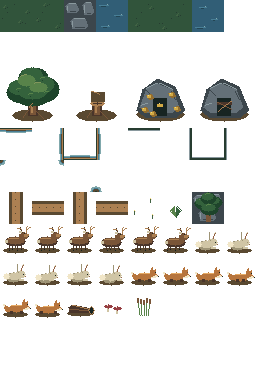
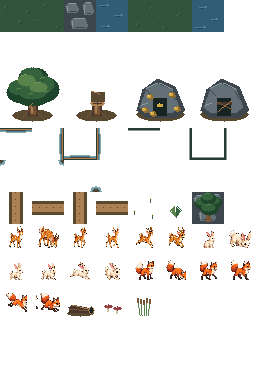
feat(art): give forest wildlife expressive sprites

Changed region(s): [[0.0, 0.5938, 1.0, 0.8438]]

diff --git a/HANDOFF.md b/HANDOFF.md
@@ -1,3 +1,29 @@
+# Överlämning RTS-188–190 — grafik/layout klar
+
+2026-10-06. Användaren beställde bättre spelgrafik inklusive saknade flyg, tydligare spelyta utan sidebar och roligare djur; bildstilen accepterades (“bilderna ser bra ut”).188–190 är Done, inga nya tasks startas.
+
+- **188** `0779d8b`, pushad: full-width karta, tech tree/commands i matchmenyn, topbar Mission öppnar pausad beskrivning/mål/status. Back/Escape/Resume och actions/minimap/feedback består. Ny separat CSS-fil; style.css orörd.
+- **189** `9af4724`, pushad: fem fraktioners fulla landroster, complete/damaged byggnader, sjö och flyg med imagegen-källark/export, team/ankare/footprint/porträtt/fog. TEMP-flygikoner ersatta av riktig air-atlas.1280 flyg-,5840 land-,180 byggnads- och2080 sjöframes.
+- **190** levereras med `feat(art): give forest wildlife expressive sprites`: spotted deer, ivory rabbit, bushy-tail fox,18 nya idle/walk/leap-poses i befintliga32px-celler. Interaktion/jakt/skada/död/Save/ljud/timing oförändrade; hash rapporteras efter commit/push.
+
+## Ny faktisk verifiering
+
+Full regression1497/180 PASS391.02s; slutlig unit476/86 PASS10.18s; build med strict typecheck PASS328ms; manifest86unit/94integration; syntax/diff/Markdown-/assetreferenser PASS. Reproducerbar full assets:export16 PNG/JSON bytevis oförändrade PASS, så passerade kodchecks upprepas inte efter exporten. Befintlig bundlevarning kvar.
+
+188 riktade11/3 och Chrome Native800/1280/1920 samt Fit800 full kartbredd/mission/tech/paus/Escape/resume PASS.189 art33/6 och runtime37/4 PASS; alla fem fraktioners native1280-spelcanvas-gallerier med båda teams/uttömmande framecoverage visuellt granskade. Actual Chrome fem flygare×800/1280 paid production/elevated selection/flight over building/SaveLoad/full queue/restart PASS.190 wildlife15/3, nya rastertester och Chrome Native800/1280 physical inspection/cues/rate limit/hunt/damage/death/no resources-score/SaveLoad/restart/warship hunt PASS; deer/rabbit/fox-bilder granskade.
+
+Första asset-unitkontrollerna förväntade äldre155-kodsprites och en global gammal palett. Testernas källa följer nu den nya adaptern; native terrain/resource/construction-palettkrav består. Nya bilder tillåter sina källfärger; clip/alpha/HP/team/geometry/pose/keys valideras. Första sådana fall räknas inte som PASS. Konkret granskning rättade beskärningsgränser, grannfragment och marginaler före slutchecks. Extern Playwright-miljö återställd efter miljöbyte; saknad-modul-körning räknas inte som PASS.
+
+## Källor, harness och gränser
+
+Källbilder, promptset och packning: [visual-refresh](assets/sources/visual-refresh/README.md). Built-in imagegen användes, ingen CLI/API eller importerade spelsprites. Källor ligger i projektet, inte bara generated_images. Animationsgrund är SE-poser med spegling/skuggning: alla åtta facing-nycklar finns, men inte åtta oberoende målade perspektiv. Work/attack/death är adapterade; fyra riktiga flygposer, två walkposer för mark och sex poser per djur. Native construction/walls/gates kvarstår; separata casting-/voiceassets och äldre mänsklig balans-/ljudgranskning är inte avslutade av detta uppdrag.
+
+Browserharness: [workspace](scripts/check-match-workspace.mjs), [art gallery](scripts/check-refreshed-art.mjs), [flyg](scripts/check-air.mjs), [djur](scripts/check-interactive-wildlife.mjs). Extern W2T_PLAYWRIGHT_MODULE/W2T_BROWSER_EXECUTABLE/W2T_UI_URL; W2T_AIR_ARTIFACTS och W2T_WILDLIFE_ARTIFACTS väljer separat output för nya belägg. Artefakter lokalt/tmp/rts189-*, /tmp/rts189-air, /tmp/rts190-wildlife. Ingen skeppad debug-API.
+
+Ingen ny CI/Pages/release eller faktisk ljudlyssning hävdas. Historisk RTS-180-release är separat. Browserchecks använder arbetskopian inklusive användarens CSS; style.css SHA25695c3725250221ef8386519adecfb05db601103697d421e78e1b2bdf057141a5e och otrackade docs/ bevarade/ej staged. Stanna efter190; fortsatt finputs kräver nästa uppdrag.
+
+---
+
 # Överlämning RTS-182–187 — avslutad meny-/kampanjfas
 
 2026-10-05. Bilagans sex tasks genomförda i ordning. RTS-181 fanns redan;182–187 lades till utan att skriva över tasks. RTS-180 är historiskt Done/publicerad0.3.0/Build6a96227, inte ny releaseverifiering. Stanna efter denna fas; inga nya tasks/karteditor.

diff --git a/DEV_LOG.md b/DEV_LOG.md
@@ -3343,3 +3343,11 @@ Användaren accepterade bildstilen (“bilderna ser bra ut”). Åtta imagegen-k
 Riktade art33/6 och runtime37/4 PASS; slutlig unit473/85 PASS10.05s och strict build/diff PASS. Actual Chrome fem flygare×800/1280: paid UI production, elevated selection, flight over building, Save/Load/full queue/restart PASS. Native1280-gallerier alla fem roster/byggnader, båda teams, alla atlasnycklar PASS och visuellt granskade efter beskärningsfix. Browserharness scripts/check-refreshed-art.mjs och check-air.mjs (separat W2T_AIR_ARTIFACTS för nya artefakter). Ny Playwright-testmiljö återställd efter miljöbyte; saknad-modul-körning räknas inte som PASS.
 
 Äldre art-tester jämförde bytevis med ersatta155-kodsprites och krävde begränsad palett. Source-jämförelser följer nu den godkända rasteradaptern; clip/alpha/HP/ankare/footprint/facing-nyckel/anim/team/unik-roll-kontroller består. Den utökade källpaletten tillåts för nya motiv; foundation/building behåller native-palettkontroll. Nya airAssets5fall validerar faktisk alpha/frame/timing/team för alla flygare. Befintlig8-perspektiv-unikhet ersätts av minst4 speglade/skuggade vyer, uttryckligt enligt källprotokollet: grundposer är SE, inte åtta separat målade riktningar. Work/attack/death är adapterade; fyra riktiga flygposer och två walkposer. Native construction/walls/gates kvarstår. Dessa kvalitetsgränser redovisas, ingen full authored8direction-claim. Ingen ny CI/Pages eller mänsklig balans-/ljudclaim. CSS/docs bevarade.
+
+## 2026-10-06 — RTS-190 verifiering
+
+Ny built-in imagegen-djurbild med spotted deer, ivory rabbit och bushy-tail fox, följd av transparent-background extraction. Vald RGBA-master visual-refresh/wildlife.png; dold bakgrunds-RGB har alpha0 och exporteras inte.18 nya poses i befintliga32px/anchor16,24. Ingen wildlife-logik, timing, Save, fog, ljud eller ekonomi ändrad. Browser Native800/1280 fysisk inspection/tre cues/rate limit/hunt/damage/death/no score/resources/SaveLoad/restart/warship hunt PASS; deer/rabbit/fox-bilder visuellt granskade. Faktisk ljudlyssning har inte utförts på nytt.
+
+Riktade wildlife15/3 PASS, slutlig unit476/86 PASS10.18s och strict build PASS328ms. Första unitsviten stoppades av gammalt globalt palette-only-worldkrav; native terrain/resource-palettkontrollen behålls och endast de18 nya djurframes tillåter sina källfärger. Nya wildlifeSprites3fall kontrollerar samtliga18 faktiska rasters: alpha, clip, sex olika poses/species och färgdetaljer. Harnessen använder W2T_WILDLIFE_ARTIFACTS för nya screenshots/loggar, gamlaPRIO04-artefakter orörda. Fullregression körs; inget PASS hävdas ännu för den.
+
+190 slutlig: fullregression1497/180 PASS391.02s. Reproducerbar full assetexport16 PNG/JSON bytevis oförändrade PASS; passerad unit476/86/strict build återanvänds efter export utan kodändring. Diff/syntax/manifest86/94 och Markdown-/assetreferenser PASS. HANDOFF/QUALITY_REVIEW/AGENTS uppdaterade; etappstopp efter190, CSS/docs bevarade. Ingen ny CI/Pages/ljudclaim.

diff --git a/QUALITY_REVIEW.md b/QUALITY_REVIEW.md
@@ -1,3 +1,15 @@
+# RTS-188–190 — Grafik och tydligare spelyta (2026-10-06)
+
+Lokala belägg:188 full-width Native800/1280/1920 och Fit800, Mission→paus→Back/Escape samt Menu→Tech tree→Resume PASS.189 alla fem faction-land/byggnad/sjö/flyg-gallerier båda teams, uttömmande runtimeframe-coverage och faktisk paid flygproduktion/selection/flight/SaveLoad vid800/1280 PASS.190 fysisk djurinspection/hunt/damage/death/SaveLoad/restart/warship hunt vid800/1280 PASS. Ny unit476/86 och build med strict typecheck PASS. Fullregression1497/180 PASS391.02s; reproducerbar full assetexport16 PNG/JSON bytevis oförändrade PASS.
+
+Review korrigerade fel cellgränser/disconnected grannfragment i genererade ark och transparenta marginaler. Användaren godkände bildstilen. Mark/sjö/flyg har nya motiv, medan native construction/walls/gates kvarstår. Grundposerna är SE; övriga riktningar använder spegling/skuggning. Ingen claim om åtta separat målade perspektiv, kompletta casting-/death-sheetanimationer eller mänsklig balans-/ljudgranskning. Alla facing-nycklar och befintliga body/HP/footprint/fog/Save-regler är bevarade. Källor och promptset finns i [visual-refresh](assets/sources/visual-refresh/README.md).
+
+Äldre155-tester jämförde med ersatta kodsprites. Source-jämförelser följer nu den nya adaptern; geometri/alpha/clip/HP/team/unik roster/nycklar/anim valideras fortfarande. Native palette-only-krav behålls för terräng, resources och construction; nya rastermotiv tillåter källpaletten. Åtta facing-keys innebär minstfyra härledda vyer, uttryckligt i sourceprotokollet. Detta är ett visuellt kvalitetssteg, inte ett påstående att alla perspektiv är slutligt handanimerade.
+
+Användarens style.css/docs bevarade och undantagna från commits. Browserbeläggen använder lokala CSS-arbetskopian; inga nya CI-/Pages-belägg hävdas. Historiska RTS-180-releasebelägg nedan är separata.
+
+---
+
 # RTS-182–187 — Ny teknisk slutgranskning2026-10-05
 
 Full regression1489/178, unit468/84, strict build/diff/manifest/länkar PASS. Riktade/native browserflöden för fem campaignraser, scoped Save/replay/progression, content/hotkeys och två verkliga AI-aktörer med olika difficulty/profile/team PASS vid800/1920/3440. Highscorefilter/tabell/legacydatum och3840-rendering/fullscreen/windowläge verifierade separat. Se [HANDOFF.md](HANDOFF.md) för exakta belägg, commits och harness.

diff --git a/BACKLOG.md b/BACKLOG.md
@@ -2,7 +2,7 @@
 
 ## Current Focus
 
-**Nytt grafik-/layoutmandat RTS-188–190:** Användaren beställer tydligare spelyta, bättre fullständig enhets-/byggnadsgrafik inklusive flyg och roligare djur. En task i taget med browser/checks/docs/commit/push. Bevara style.css/docs och gameplay/balans/Save. Ingen delegering.
+**Nytt grafik-/layoutmandat RTS-188–190:** Användaren beställer tydligare spelyta, bättre fullständig enhets-/byggnadsgrafik inklusive flyg och roligare djur. En task i taget med browser/checks/docs/commit/push. Bevara style.css/docs och gameplay/balans/Save. Ingen delegering.188 push0779d8b,189 push9af4724,190 Done; etappen avslutas här. Full regression1497/180, unit476/86, strict build/diff och browser PASS. HANDOFF styr överlämningen; inga nya tasks.
 
 ### RTS-188 — Frigör spelytan — Done
 - Ta bort permanent sidebar från matchlayout; karta använder hela bredden.
@@ -15,8 +15,8 @@
 - Bevara riktningar, relevanta animationer, teamfärg, ankare, fog/selection/porträtt och logical footprints. Kontrollera alla motiv i spelbrowser; inga flygtextikoner som slutgrafik.
 - Dokumentera källor/prompt/export och faktiska belägg. Non-goals: balans-/rosterändringar.
 
-### RTS-190 — Livfulla djur — In Progress
-- Ny särskiljbar design för deer/rabbit/fox med igenkännbara poser och befintlig idle/walk/flee/hunt/död-presentation.
+### RTS-190 — Livfulla djur — Done
+- Ny särskiljbar design för deer/rabbit/fox med igenkännbara poser och befintlig idle/walk/jakt/skadad/död-presentation.
 - Bevara interaktion, sparning, fog, ljud och gameplay. Visuell browserkontroll och riktade regressioner.
 - Samlade slutchecks och HANDOFF efter190; inga nya tasks.
 

diff --git a/assets/sources/visual-refresh/README.md b/assets/sources/visual-refresh/README.md
@@ -52,3 +52,19 @@ perspectives. Work/attack loops use idle/strike poses; death uses a bounded
 collapse/fade from the new art. There are genuine two walking poses and four
 flight poses; no claim of fully authored eight-direction animation sheets.
 Fog, action timing, death lifetime, team tint and selection use existing systems.
+
+## RTS-190 wildlife
+
+`wildlife.png`: built-in imagegen followed by a background-extraction edit.
+Prompt: transparent original fantasy RTS atlas, three rows (spotted amber deer
+with antlers, expressive ivory/pink-eared rabbit, mischievous russet fox with
+bushy white-tipped tail) and six columns (idle alert, grazing/sniffing, two
+walk steps, stretched leap, landing). Charming natural forest animals, same
+detailed fantasy style, no clothing/background/text; generous cell margins.
+The final selected source contains real alpha; hidden RGB can appear brown in
+a preview but is not drawn by the game. No opaque background is packed.
+
+Existing32px cells and anchor(16,24) remain. Deer22px, rabbit18px, fox20px max
+body height; six distinct source poses. Existing wander clock/flip and
+selection/hunt/HP/death-fade/fog/save/audio behavior is unchanged. Terrain and
+resources retain their original palette; new wildlife uses its source colors.

diff --git a/AGENTS.md b/AGENTS.md
@@ -151,3 +151,7 @@ Användarens nya uppdrag ersätter stoppet efter176. Genomför177–180 en task 
 ## Stopp efter RTS-180
 
 RTS-177–180 är avslutade och0.3.0/Build6a96227 är publicerad med faktisk CI/Pages/browser-verifiering. HANDOFF.md och QUALITY_REVIEW.md skiljer tekniska belägg från kvarstående mänsklig tids-/balans-/ljudgranskning och slutliga assets. Stanna efter180; inga nya roadmaptasks eller karteditor utan nytt uppdrag. Användarens CSS/docs är fortsatt bevarade.
+
+## Avslutad grafik-/layoutetapp RTS-188–190
+
+Användarens uttryckliga uppdrag efter182–187 genomförde188–190 en task i taget, med commit/push.188/189 levererade0779d8b/9af4724;190 verifierad. Bildstilen godkänd. Fullregression1497/180, unit476/86, strict build/diff och faktisk browser PASS. HANDOFF/QUALITY_REVIEW skiljer bildförbättringar från återstående separat målade riktnings-/castingassets och mänsklig balans/ljudgranskning. CSS/docs bevaras; ingen delegering. Etappen avslutas efter190, inga nya tasks/karteditor automatiskt. Ingen ny CI/Pages/release hävdas.
